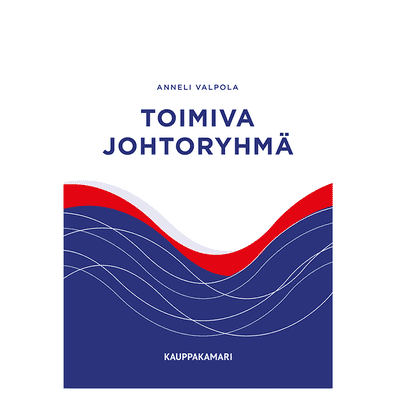
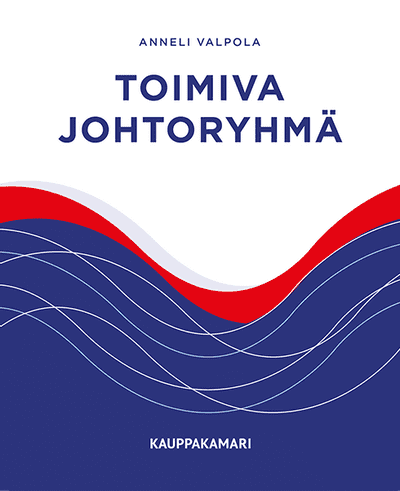
Updates

diff --git a/index.html b/index.html
@@ -48,6 +48,6 @@
 /* sc-component-id: pages__ContactLink-sc-1rytqz-9 */
[1 lines of base64/hex data omitted]
 /static/8a4c68a249d3d303cd8611743a9ed20d/cf308/avatar.png 455w" sizes="(max-width: 455px) 100vw, 455px" /><img loading="lazy" sizes="(max-width: 455px) 100vw, 455px" srcset="/static/8a4c68a249d3d303cd8611743a9ed20d/497c6/avatar.png 400w,
[1 lines of base64/hex data omitted]
-/static/87ec045299268edc18a111b5a07fcdd5/32df2/toimiva_johtoryhma.png 730w" sizes="(max-width: 730px) 100vw, 730px" /><img loading="lazy" sizes="(max-width: 730px) 100vw, 730px" srcset="/static/87ec045299268edc18a111b5a07fcdd5/497c6/toimiva_johtoryhma.png 400w,
-/static/87ec045299268edc18a111b5a07fcdd5/32df2/toimiva_johtoryhma.png 730w" src="/static/87ec045299268edc18a111b5a07fcdd5/32df2/toimiva_johtoryhma.png" alt="Toimiva johtoryhmä" style="position:absolute;top:0;left:0;opacity:1;width:100%;height:100%;object-fit:cover;object-position:center"/></picture></noscript></div></a></div><div class="pages__WorkWithMe-sc-1rytqz-7 OGtSz"><h1 class="Typography__H1-sc-1hevy77-0 dExySd">Ota yhteyttä</h1><p class="Typography__P-sc-1hevy77-5 iXqhtE"><a href="mailto:anneli.valpola@olorin.fi" class="pages__ContactLink-sc-1rytqz-9 dMxCgd">anneli.valpola@olorin.fi<span class="material-icons icon">mail</span></a></p><p class="Typography__P-sc-1hevy77-5 iXqhtE"><a href="tel:+358505556565" class="pages__ContactLink-sc-1rytqz-9 dMxCgd">+358 505556565<span class="material-icons icon">phone</span></a></p></div></div><div class="Footer__FooterWrapper-sc-1lns33f-0 hFRLpg"><div class="Layout__Content-sc-58elm-0 btjHoX"><p class="Footer__Copyright-sc-1lns33f-1 igMOyR">© Anneli Valpola <!-- -->2021</p></div></div></div></div><div id="gatsby-announcer" style="position:absolute;top:0;width:1px;height:1px;padding:0;overflow:hidden;clip:rect(0, 0, 0, 0);white-space:nowrap;border:0" aria-live="assertive" aria-atomic="true"></div></div><script id="gatsby-script-loader">/*<![CDATA[*/window.pagePath="/";/*]]>*/</script><script id="gatsby-chunk-mapping">/*<![CDATA[*/window.___chunkMapping={"polyfill":["/polyfill-ca8adf9770cfeec4c092.js"],"app":["/app-b79dd40e4aa3f6c15144.js"],"component---src-pages-404-js":["/component---src-pages-404-js-19701a7312a6e675a947.js"],"component---src-pages-about-me-js":["/component---src-pages-about-me-js-26c07512cfe5368e1e3c.js"],"component---src-pages-index-js":["/component---src-pages-index-js-6f7b9dd2489f0ba7758a.js"]};/*]]>*/</script><script src="/polyfill-ca8adf9770cfeec4c092.js" nomodule=""></script><script src="/component---src-pages-index-js-6f7b9dd2489f0ba7758a.js" async=""></script><script src="/e846bfb6028e42a219416cf470e57e72d5c609e6-d57e403f6b3df0c7cfb5.js" async=""></script><script src="/commons-733d0b814603ab1d4038.js" async=""></script><script src="/app-b79dd40e4aa3f6c15144.js" async=""></script><script src="/framework-dbb498007a7447f28d8e.js" async=""></script><script src="/webpack-runtime-2e9316393f9c3d2692b3.js" async=""></script></body></html>
[1 lines of base64/hex data omitted]
+/static/87ec045299268edc18a111b5a07fcdd5/d99e3/toimiva_johtoryhma.png 490w" sizes="(max-width: 490px) 100vw, 490px" /><img loading="lazy" sizes="(max-width: 490px) 100vw, 490px" srcset="/static/87ec045299268edc18a111b5a07fcdd5/497c6/toimiva_johtoryhma.png 400w,
+/static/87ec045299268edc18a111b5a07fcdd5/d99e3/toimiva_johtoryhma.png 490w" src="/static/87ec045299268edc18a111b5a07fcdd5/d99e3/toimiva_johtoryhma.png" alt="Toimiva johtoryhmä" style="position:absolute;top:0;left:0;opacity:1;width:100%;height:100%;object-fit:cover;object-position:center"/></picture></noscript></div></a></div><div class="pages__WorkWithMe-sc-1rytqz-7 OGtSz"><h1 class="Typography__H1-sc-1hevy77-0 dExySd">Ota yhteyttä</h1><p class="Typography__P-sc-1hevy77-5 iXqhtE"><a href="mailto:anneli.valpola@olorin.fi" class="pages__ContactLink-sc-1rytqz-9 dMxCgd">anneli.valpola@olorin.fi<span class="material-icons icon">mail</span></a></p><p class="Typography__P-sc-1hevy77-5 iXqhtE"><a href="tel:+358505556565" class="pages__ContactLink-sc-1rytqz-9 dMxCgd">+358 505556565<span class="material-icons icon">phone</span></a></p></div></div><div class="Footer__FooterWrapper-sc-1lns33f-0 hFRLpg"><div class="Layout__Content-sc-58elm-0 btjHoX"><p class="Footer__Copyright-sc-1lns33f-1 igMOyR">© Anneli Valpola <!-- -->2021</p></div></div></div></div><div id="gatsby-announcer" style="position:absolute;top:0;width:1px;height:1px;padding:0;overflow:hidden;clip:rect(0, 0, 0, 0);white-space:nowrap;border:0" aria-live="assertive" aria-atomic="true"></div></div><script id="gatsby-script-loader">/*<![CDATA[*/window.pagePath="/";/*]]>*/</script><script id="gatsby-chunk-mapping">/*<![CDATA[*/window.___chunkMapping={"polyfill":["/polyfill-ca8adf9770cfeec4c092.js"],"app":["/app-b79dd40e4aa3f6c15144.js"],"component---src-pages-404-js":["/component---src-pages-404-js-19701a7312a6e675a947.js"],"component---src-pages-about-me-js":["/component---src-pages-about-me-js-26c07512cfe5368e1e3c.js"],"component---src-pages-index-js":["/component---src-pages-index-js-6f7b9dd2489f0ba7758a.js"]};/*]]>*/</script><script src="/polyfill-ca8adf9770cfeec4c092.js" nomodule=""></script><script src="/component---src-pages-index-js-6f7b9dd2489f0ba7758a.js" async=""></script><script src="/e846bfb6028e42a219416cf470e57e72d5c609e6-d57e403f6b3df0c7cfb5.js" async=""></script><script src="/commons-733d0b814603ab1d4038.js" async=""></script><script src="/app-b79dd40e4aa3f6c15144.js" async=""></script><script src="/framework-dbb498007a7447f28d8e.js" async=""></script><script src="/webpack-runtime-2e9316393f9c3d2692b3.js" async=""></script></body></html>
